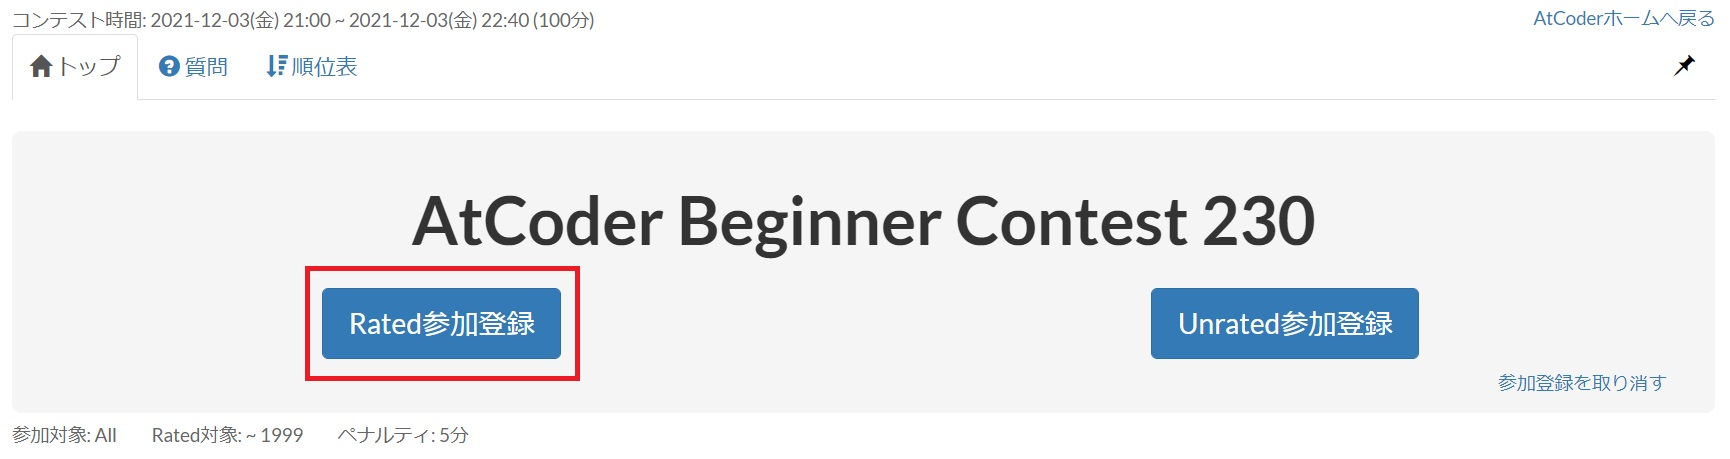
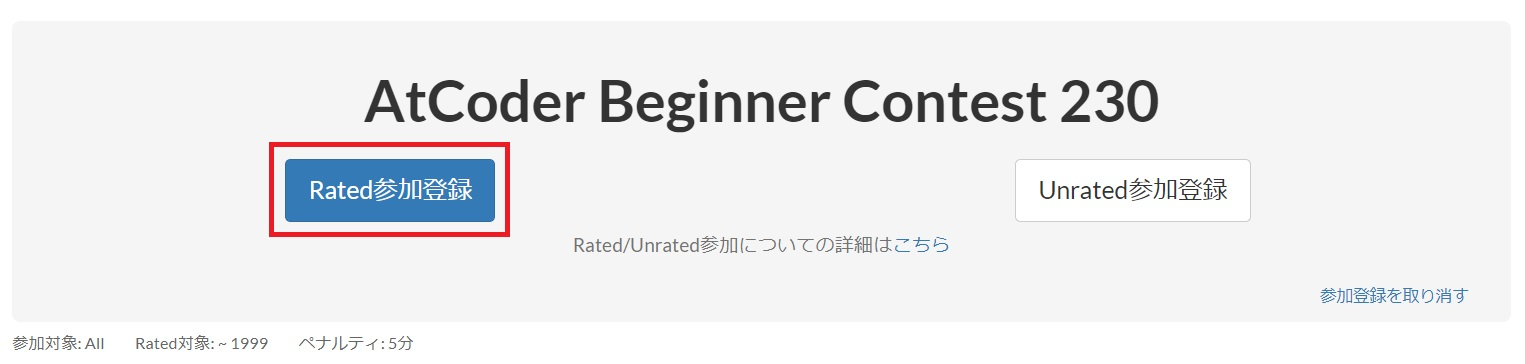
Unratedボタン色変更 対応

diff --git a/le/k_c_pej_p_gm/about/about.html b/le/k_c_pej_p_gm/about/about.html
@@ -166,12 +166,12 @@
           <div class="cb31">
             <h3 class="cb40">コンテスト開始直前</h3>
             <span class="cb41">
-              参加登録が一時的に完了すると、画像のように「Rated参加登録」と「Unrated参加登録」の2つの青いボタンが表示されます。<br>
+              参加登録が一時的に完了すると、画像のように「Rated参加登録」という青いボタンと「Unrated参加登録」という白いボタンが表示されます。<br>
               「Rated参加登録」を押すと、このコンテストの結果がレートに反映されます。「Unrated参加登録」を押すと、このコンテストの結果がレートに反映されません。<br>
               どちらかのボタンを押すと、「現在～で参加登録しています」と表示されます。<br>
               また、コンテスト開始5分以内にこの選択をしないと、Unratedとなるので注意してください。
               この選択はコンテスト直前でなくても行うことはできますが、Ratedを選択したにもかかわらず寝坊などの何らか理由で参加できなくなった場合に、「参加したが1問も解けなかった」という扱いになってしまいレートが大幅に減少する可能性があるため、コンテスト直前の選択をお勧めします。<br>
-              このRated/Unrated登録機能についての詳細は、<a class="cb42" href="https://atcoder.jp/posts/744">Rated/Unrated登録機能追加のお知らせ</a>を見てください。
+              このRated/Unrated登録機能についての詳細は、ボタンの下にも表示されている通り<a class="cb42" href="https://atcoder.jp/posts/744">Rated/Unrated登録機能追加のお知らせ</a>を見てください。
             </span>
           </div>
           <img class="cb30" src="contestRegisterR.jpg">
